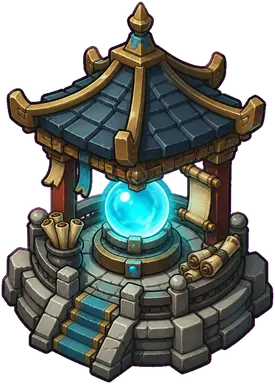
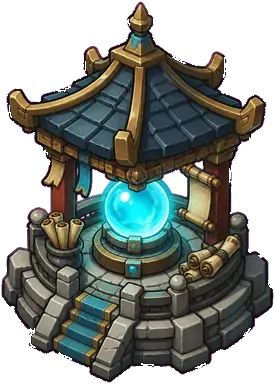
Stand towers and heroes up with an isometric camera.
Top-down ortho flattened THREE.Sprite into black cards on the ground.
The camera now looks from (panX, 22, panZ+18). Units and towers are
vertical mesh planes with feet on the pad. Idle bob is a child offset
so it no longer fights position.y. Edge-connected near-black on the
webp pack is punched to alpha.

diff --git a/src/Game.js b/src/Game.js
@@ -8,7 +8,7 @@ import {
   TOWERS,
   WAVES,
 } from "./content.js";
-import { MAP_SIZE, loadPlayPack, prefetchRest } from "./art.js";
+import { MAP_SIZE, aimBillboard, loadPlayPack, prefetchRest } from "./art.js";
 import { MAPS, buildPath, getMap } from "./maps.js";
 import {
   decorateMap,
@@ -26,6 +26,9 @@ import { VFX } from "./vfx.js";
 let nid = 1;
 const nextId = () => nid++;
 
+const CAM_H = 22;
+const CAM_BACK = 18;
+
 export class Game {
   constructor(canvas) {
     this.canvas = canvas;
@@ -42,8 +45,9 @@ export class Game {
 
     this.scene = new THREE.Scene();
     this.viewSize = 14;
-    this.camera = new THREE.OrthographicCamera(-14, 14, 14, -14, 0.1, 200);
-    this.camera.position.set(0, 60, 0.01);
+    this.camera = new THREE.OrthographicCamera(-14, 14, 14, -14, 0.1, 220);
+    this.camera.up.set(0, 1, 0);
+    this.camera.position.set(0, CAM_H, CAM_BACK);
     this.camera.lookAt(0, 0, 0);
     this.renderer = new THREE.WebGLRenderer({
       canvas,
@@ -309,7 +313,8 @@ export class Game {
     this.camera.top = s;
     this.camera.bottom = -s;
     this.camera.updateProjectionMatrix();
-    this.camera.position.set(this.panX, 60, this.panZ + 0.01);
+    this.camera.up.set(0, 1, 0);
+    this.camera.position.set(this.panX, CAM_H, this.panZ + CAM_BACK);
     this.camera.lookAt(this.panX, 0, this.panZ);
   }
 
@@ -334,8 +339,15 @@ export class Game {
     }
     this.vfx.update(dt);
     this.bobDecor(dt);
+    this.aimBillboards();
     this.renderer.render(this.scene, this.camera);
   };
+
+  aimBillboards() {
+    for (const h of this.heroes) aimBillboard(h.mesh, this.camera);
+    for (const e of this.enemies) aimBillboard(e.mesh, this.camera);
+    for (const s of this.soldiers) aimBillboard(s.mesh, this.camera);
+  }
 
   bobDecor(dt) {
     const t = performance.now() * 0.001;
@@ -344,10 +356,14 @@ export class Game {
       if (obj.name === "water") obj.position.y = -0.02 + Math.sin(t) * 0.02;
     });
     for (const h of this.heroes) {
-      if (h.mesh && h.hp > 0) h.mesh.position.y = Math.sin(t * 6 + h.x) * 0.04;
+      if (h.mesh?.userData.bob && h.hp > 0) {
+        h.mesh.userData.bob.position.y = Math.sin(t * 6 + h.x) * 0.04;
+      }
     }
     for (const e of this.enemies) {
-      if (e.mesh) e.mesh.position.y = Math.sin(t * 10 + e.dist) * 0.05;
+      if (e.mesh?.userData.bob) {
+        e.mesh.userData.bob.position.y = Math.sin(t * 10 + e.dist) * 0.05;
+      }
     }
     void dt;
   }
@@ -950,6 +966,8 @@ export class Game {
       px: this.panX,
       pz: this.panZ,
       hit,
+      hitX: hit.x,
+      hitZ: hit.z,
       moved: false,
     };
   }
@@ -960,11 +978,15 @@ export class Game {
     const dy = event.clientY - this.drag.sy;
     if (!this.drag.moved && Math.hypot(dx, dy) < 12) return;
     this.drag.moved = true;
-    const w = this.canvas.clientWidth || window.innerWidth;
-    const h = this.canvas.clientHeight || window.innerHeight;
-    this.panX = this.drag.px - (dx / w) * (this.camera.right - this.camera.left);
-    this.panZ = this.drag.pz - (dy / h) * (this.camera.top - this.camera.bottom);
+    this.panX = this.drag.px;
+    this.panZ = this.drag.pz;
     this.applyView();
+    const now = this.groundHit(event);
+    if (now) {
+      this.panX = this.drag.px - (now.x - this.drag.hitX);
+      this.panZ = this.drag.pz - (now.z - this.drag.hitZ);
+      this.applyView();
+    }
   }
 
   onPointerUp(event) {

diff --git a/src/art.js b/src/art.js
@@ -84,19 +84,38 @@ export function tex(path) {
   return hit instanceof THREE.Texture ? hit : fallbackTexture();
 }
 
-export function makeBillboard(texture, width, height, { ground = true } = {}) {
-  const mat = new THREE.SpriteMaterial({
+export function makeBillboard(texture, width, height, { ground = true, lockYaw = false } = {}) {
+  const geo = new THREE.PlaneGeometry(width, height);
+  if (ground) geo.translate(0, height / 2 + 0.03, 0);
+  const mat = new THREE.MeshBasicMaterial({
     map: texture,
     transparent: true,
     depthWrite: false,
-    alphaTest: 0.12,
+    depthTest: true,
+    alphaTest: 0.18,
+    side: THREE.DoubleSide,
   });
-  const sprite = new THREE.Sprite(mat);
-  sprite.scale.set(width, height, 1);
-  if (ground) sprite.center.set(0.5, 0);
-  sprite.userData.height = height;
-  sprite.userData.width = width;
-  return sprite;
+  const visual = new THREE.Mesh(geo, mat);
+  const bob = new THREE.Group();
+  bob.add(visual);
+  const pivot = new THREE.Group();
+  pivot.add(bob);
+  pivot.userData.height = height;
+  pivot.userData.width = width;
+  pivot.userData.visual = visual;
+  pivot.userData.bob = bob;
+  pivot.userData.billboard = true;
+  pivot.userData.lockYaw = lockYaw;
+  pivot.userData.face = 1;
+  return pivot;
+}
+
+export function aimBillboard(obj, camera) {
+  if (!obj?.userData?.billboard || obj.userData.lockYaw) return;
+  const dx = camera.position.x - obj.position.x;
+  const dz = camera.position.z - obj.position.z;
+  if (dx * dx + dz * dz < 1e-6) return;
+  obj.rotation.y = Math.atan2(dx, dz);
 }
 
 export function makeGround(texture) {

diff --git a/src/models.js b/src/models.js
@@ -79,7 +79,7 @@ export function makeTower(type, level = 1) {
   const texture = tex(ART.tower(type, lv));
   const heights = { ballista: 3.25, thunder: 2.7, barracks: 2.75, sage: 3.15 };
   const [w, h] = spriteSize(texture, heights[type] || 2.9, 3.4);
-  return makeBillboard(texture, w, h);
+  return makeBillboard(texture, w, h, { lockYaw: true });
 }
 
 export function makeSpot() {
@@ -183,9 +183,16 @@ export function makePathRibbon() {
   return new THREE.Group();
 }
 
-export function faceSprite(sprite, dirX) {
-  if (!sprite?.scale) return;
-  const w = Math.abs(sprite.userData.width || sprite.scale.x);
-  const h = sprite.userData.height || sprite.scale.y;
-  sprite.scale.set(dirX < -0.05 ? -w : w, h, 1);
+export function faceSprite(obj, dirX) {
+  const visual = obj?.userData?.visual;
+  if (visual) {
+    const face = dirX < -0.05 ? -1 : 1;
+    visual.scale.x = face;
+    obj.userData.face = face;
+    return;
+  }
+  if (!obj?.scale) return;
+  const w = Math.abs(obj.userData.width || obj.scale.x);
+  const h = obj.userData.height || obj.scale.y;
+  obj.scale.set(dirX < -0.05 ? -w : w, h, 1);
 }

diff --git a/src/main.js b/src/main.js
@@ -313,6 +313,14 @@ function boot() {
     window.addEventListener("resize", syncOrientation);
     window.addEventListener("orientationchange", syncOrientation);
     window.visualViewport?.addEventListener("resize", syncOrientation);
+    if (new URLSearchParams(location.search).get("shot") === "1") {
+      rotateDismissed = true;
+      hideRotate();
+      enterMap("hulao").then(() => {
+        game.placeTower(3, "ballista");
+        game.placeTower(4, "thunder");
+      });
+    }
   } catch (err) {
     console.warn("[boot] failed", err);
     if (loadingText) loadingText.textContent = "点兵受阻，请刷新再试";

diff --git a/scripts/punch_black.py b/scripts/punch_black.py
@@ -1,0 +1,78 @@
+#!/usr/bin/env python3
+"""Punch edge-connected near-black backdrop on unit/tower webps, then recrop."""
+
+from pathlib import Path
+
+from PIL import Image
+
+ROOT = Path("/workspace/public")
+FOLDERS = ("units", "towers")
+
+
+def is_backdrop(r: int, g: int, b: int, a: int) -> bool:
+    if a < 12:
+        return True
+    return max(r, g, b) < 32 and (r + g + b) < 66
+
+
+def punch(im: Image.Image) -> Image.Image:
+    im = im.convert("RGBA")
+    px = im.load()
+    w, h = im.size
+    seen = bytearray(w * h)
+    stack = []
+    for x in range(w):
+        stack.append((x, 0))
+        stack.append((x, h - 1))
+    for y in range(h):
+        stack.append((0, y))
+        stack.append((w - 1, y))
+    while stack:
+        x, y = stack.pop()
+        if x < 0 or y < 0 or x >= w or y >= h:
+            continue
+        i = y * w + x
+        if seen[i]:
+            continue
+        seen[i] = 1
+        r, g, b, a = px[x, y]
+        if not is_backdrop(r, g, b, a):
+            continue
+        if a:
+            px[x, y] = (r, g, b, 0)
+        stack.extend(((x + 1, y), (x - 1, y), (x, y + 1), (x, y - 1)))
+
+    # Dark anti-aliased fringe next to cleared backdrop
+    for y in range(h):
+        for x in range(w):
+            r, g, b, a = px[x, y]
+            if a < 16 or a > 210:
+                continue
+            if max(r, g, b) > 48:
+                continue
+            edge = False
+            for nx, ny in ((x + 1, y), (x - 1, y), (x, y + 1), (x, y - 1)):
+                if 0 <= nx < w and 0 <= ny < h and px[nx, ny][3] < 12:
+                    edge = True
+                    break
+            if edge:
+                px[x, y] = (r, g, b, 0)
+
+    bbox = im.getbbox()
+    if not bbox:
+        return im
+    pad = 3
+    x0, y0, x1, y1 = bbox
+    return im.crop((max(0, x0 - pad), max(0, y0 - pad), min(w, x1 + pad), min(h, y1 + pad)))
+
+
+def main() -> None:
+    for folder in FOLDERS:
+        for src in sorted((ROOT / folder).glob("*.webp")):
+            out = punch(Image.open(src))
+            out.save(src, "WEBP", quality=78, method=6)
+            print(f"punched {src} {out.size} {src.stat().st_size // 1024}KB")
+
+
+if __name__ == "__main__":
+    main()

diff --git a/scripts/process_art.py b/scripts/process_art.py
@@ -84,7 +84,8 @@ def chroma(im: Image.Image) -> Image.Image:
             continue
         seen[i] = 1
         r, g, b, a = px[x, y]
-        backdrop = a < 12 or is_key(r, g, b) or (a < 80 and r > 140 and b > 120 and g < 140)
+        near_black = max(r, g, b) < 32 and (r + g + b) < 66
+        backdrop = a < 12 or is_key(r, g, b) or near_black or (a < 80 and r > 140 and b > 120 and g < 140)
         if not backdrop:
             continue
         if a:
